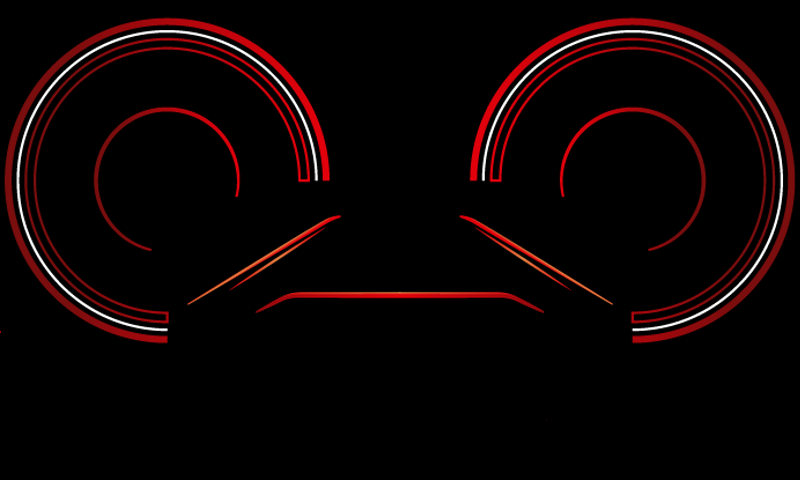
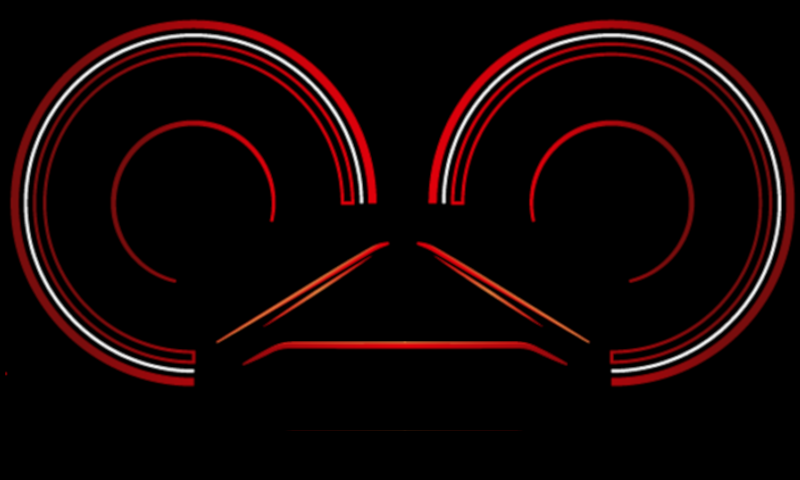
more changes

diff --git a/Gauges/Cluster.qml b/Gauges/Cluster.qml
@@ -86,7 +86,7 @@ Item {
             anchors.left: scalerect.left
             anchors.leftMargin: scalerect.width / 2.75
             anchors.bottom: scalerect.bottom
-            anchors.bottomMargin: scalerect.height / 3.2
+            anchors.bottomMargin: scalerect.height / 5
             color: "transparent"
 
 
@@ -160,12 +160,12 @@ Item {
         Rectangle {
             color: "transparent"
             id: speedo
-            height: scalerect.height /1.791
+            height: scalerect.height /1.6
             width: height
             anchors.left: scalerect.left
-            anchors.leftMargin: scalerect.width / 24.24
+            anchors.leftMargin: scalerect.width / 18.18 //44
             anchors.top: scalerect.top
-            anchors.topMargin: scalerect.height / 10.43
+            anchors.topMargin: scalerect.height / 9.23 //52
 
 
             // Paint Tickmarks and Labels on the Speedo
@@ -209,12 +209,12 @@ Item {
         Rectangle {
             color: "transparent"
             id: revcounter
-            height: scalerect.height /1.791
+            height: scalerect.height /1.6
             width: height
             anchors.top: scalerect.top
-            anchors.topMargin: scalerect.height / 10.43
+            anchors.topMargin: scalerect.height / 9.23
             anchors.right: scalerect.right
-            anchors.rightMargin: scalerect.width / 25
+            anchors.rightMargin: scalerect.height / 13 //44
 
             // Paint Tickmarks and Labels on the Rev counter
             CircularGauge {
